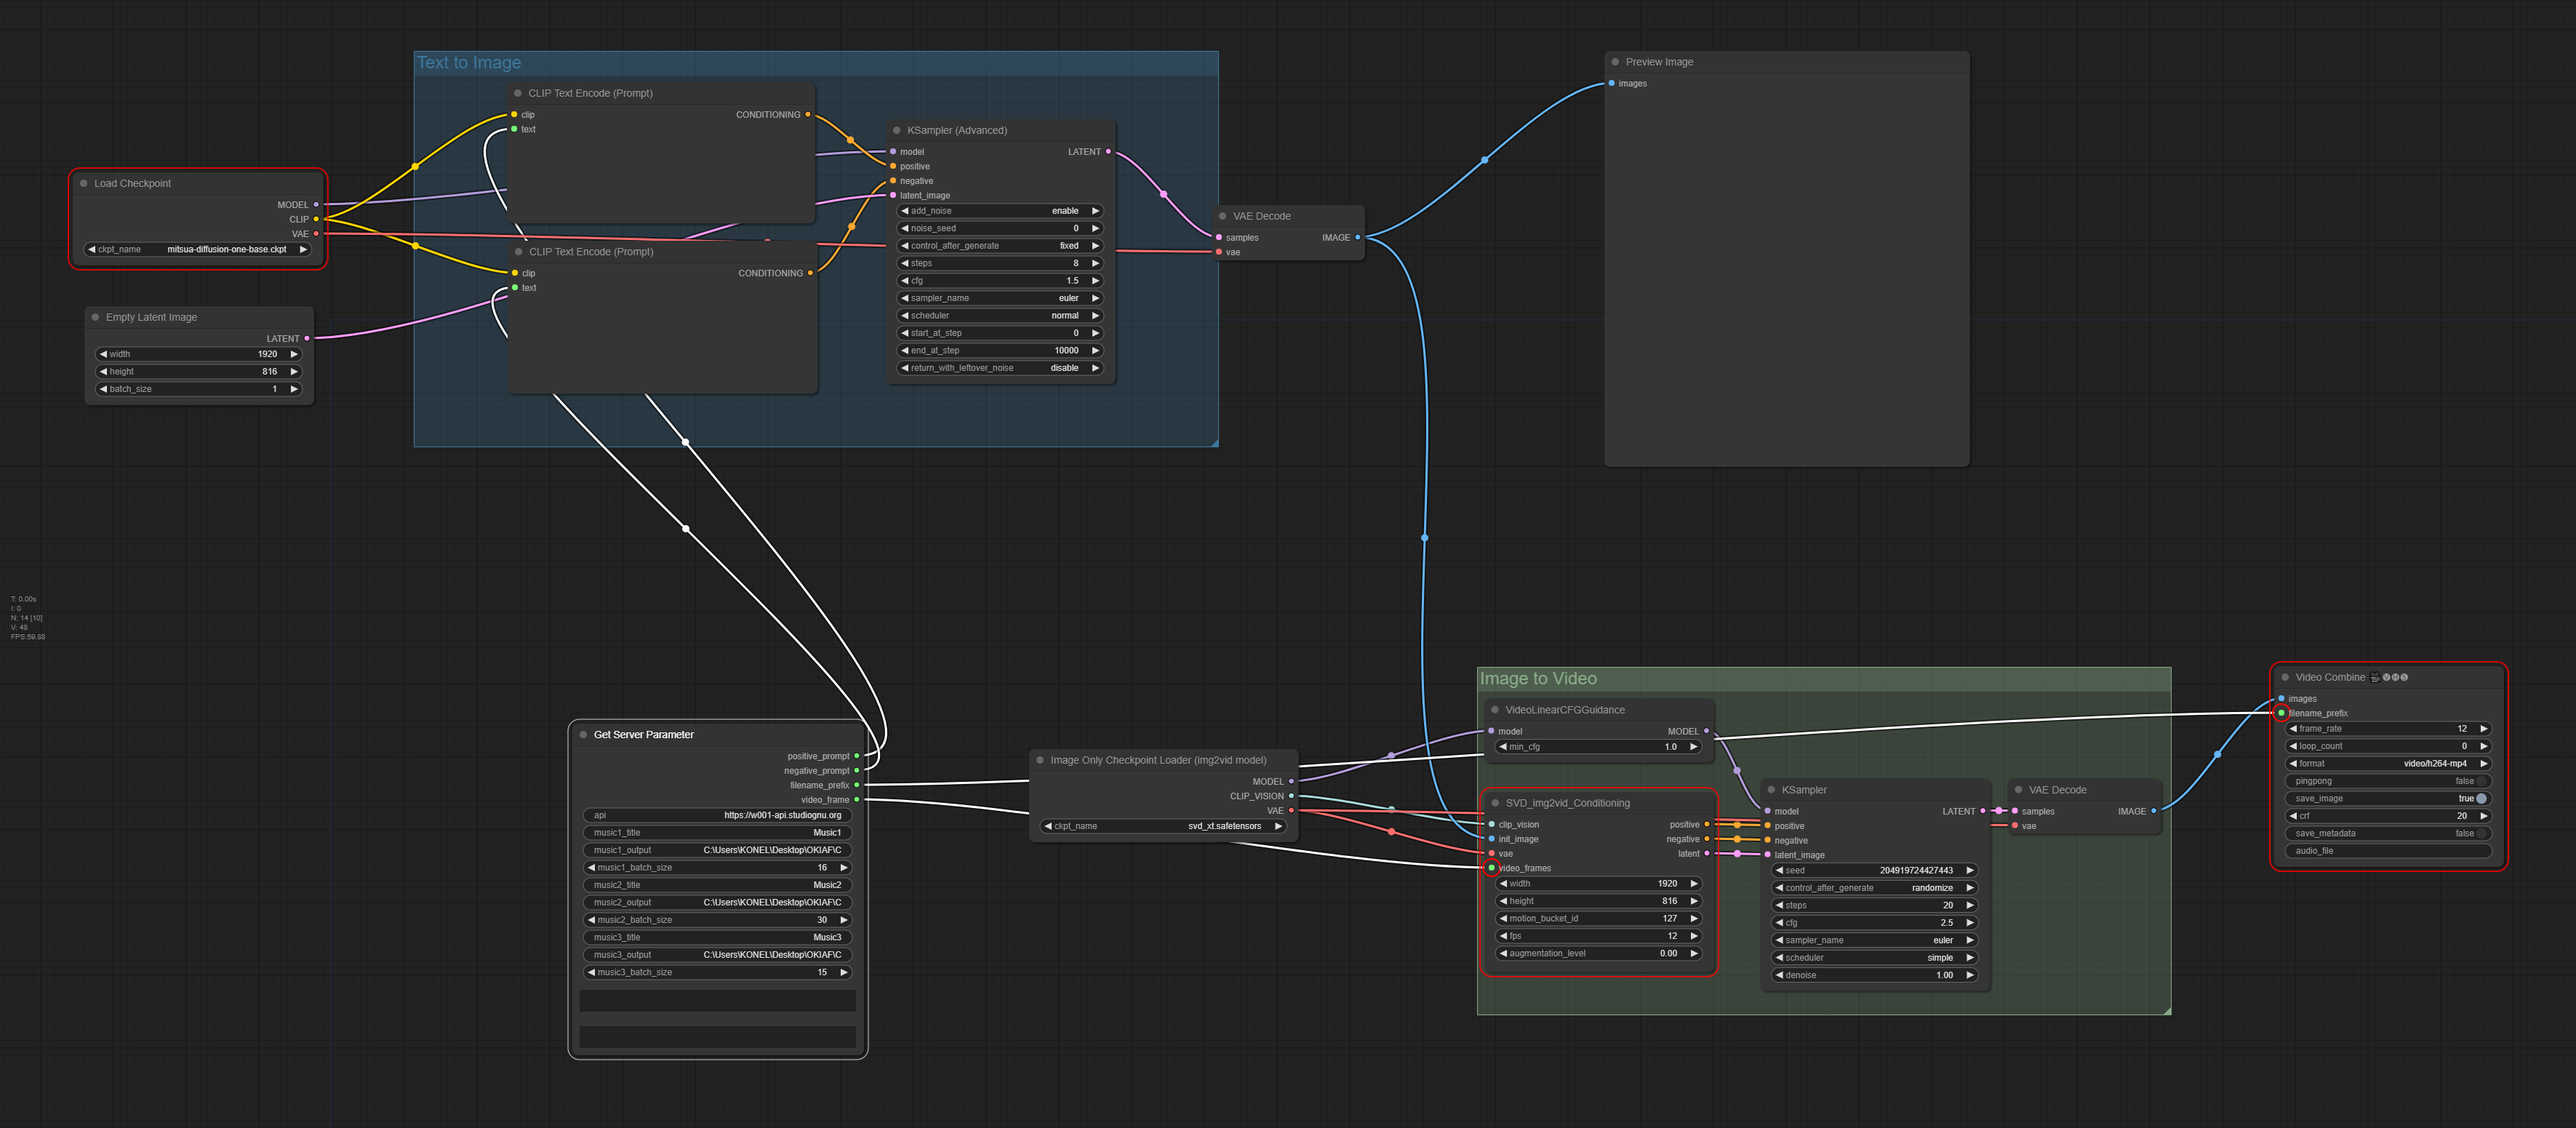
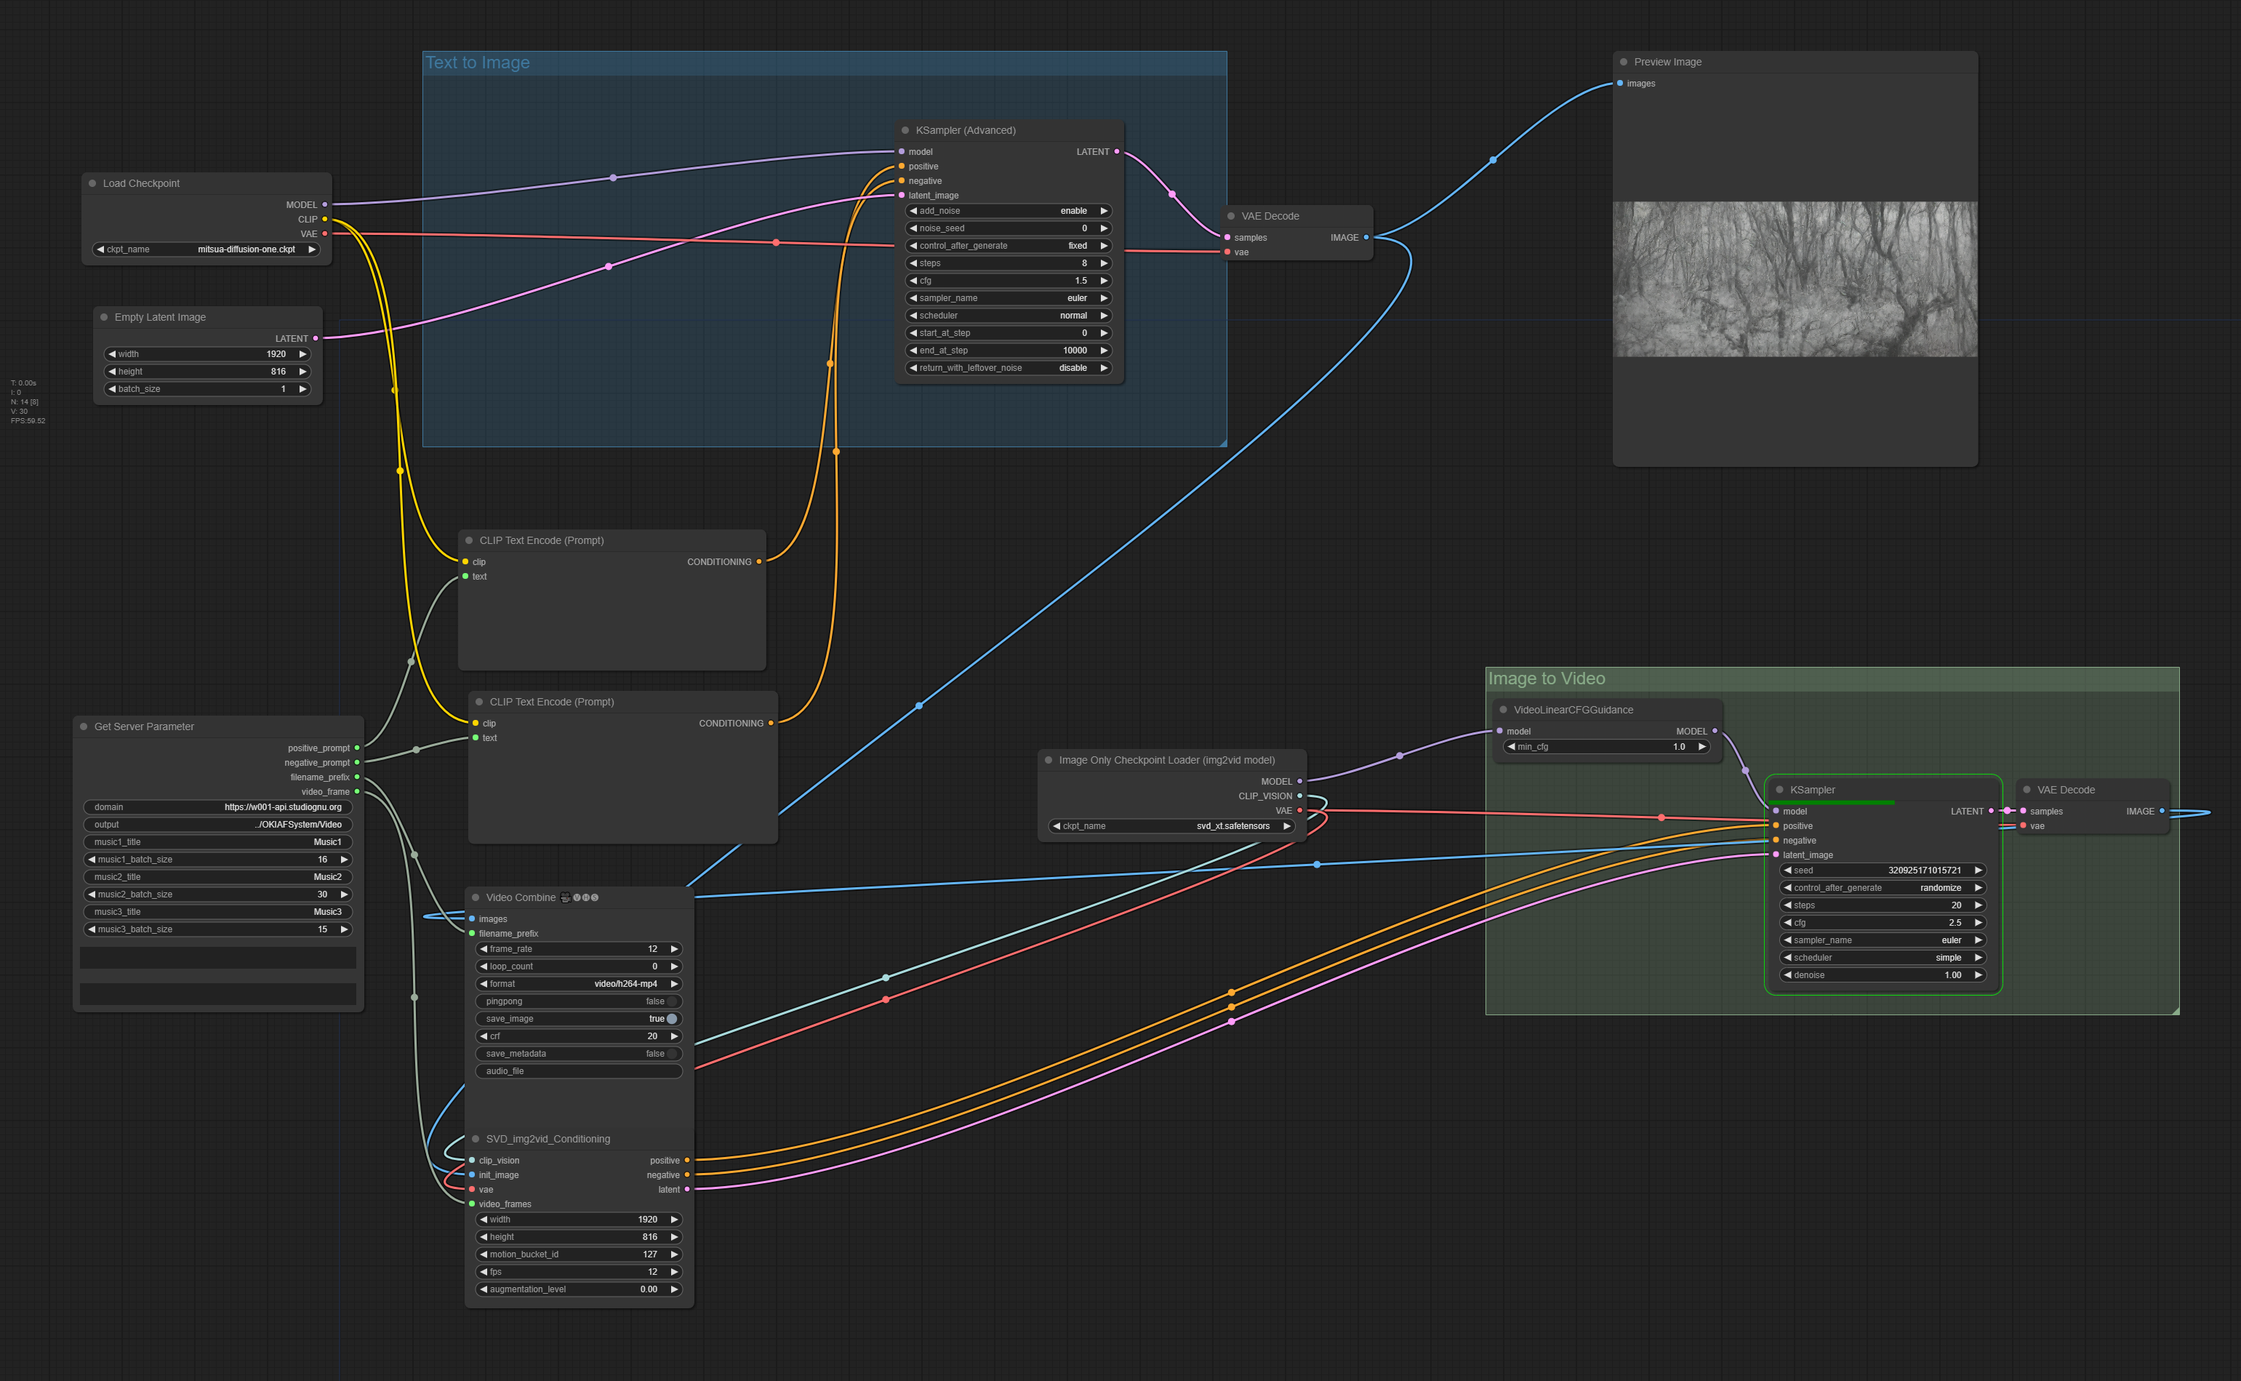
fix

diff --git a/custom_node.py b/custom_node.py
@@ -23,16 +23,13 @@ class GetServerParameter:
     def INPUT_TYPES(s):
         return {
             "required": {
-                "api": ("STRING", {"default": "https://w001-api.studiognu.org/api/prompt/mv/Music1"}),
+                "domain": ("STRING", {"default": "https://w001-api.studiognu.org/api/prompt/mv"}),
+                "output": ("STRING", {"default": folder_paths.get_output_directory()}),
                 "music1_title": ("STRING", {"default": "Music1"}),
-                "music1_output": ("STRING", {"default": folder_paths.get_output_directory()}),
                 "music1_batch_size": ("INT",{"default": 16, "min": 1, "step": 1},),
-                "music1_title": ("STRING", {"default": "Music1"}),
                 "music2_title": ("STRING", {"default": "Music2"}),
-                "music2_output": ("STRING", {"default": folder_paths.get_output_directory()}),
                 "music2_batch_size": ("INT",{"default": 30, "min": 1, "step": 1},),
                 "music3_title": ("STRING", {"default": "Music3"}),
-                "music3_output": ("STRING", {"default": folder_paths.get_output_directory()}),
                 "music3_batch_size": ("INT",{"default": 15, "min": 1, "step": 1},),
                 "positive_prompt": ("STRING", {"multiline": True}),
                 "negative_prompt": ("STRING", {"multiline": True}),
@@ -45,11 +42,13 @@ class GetServerParameter:
 
     CATEGORY = "OKIAF"
 
-    def run(self,api, positive_prompt,negative_prompt,
+    def run(self,domain,output,positive_prompt,negative_prompt,
             music1_title,music2_title,music3_title,
-            music1_output,music2_output,music3_output,
             music1_batch_size,music2_batch_size,music3_batch_size):
         
+        api = domain + '/Music1'
+        print(api)
+
         res = get(api)
         if res.status_code != 200:
             _positive_prompt = positive_prompt
@@ -58,10 +57,10 @@ class GetServerParameter:
         data = res.json()
 
         #データが前回と同じだったら1秒待機して再取得する
-        while self.prev_prompt == data["prompt"]:
-            time.sleep(1)
-            res = get(api)
-            data = res.json()
+        # while self.prev_prompt == data["prompt"]:
+        #     time.sleep(1)
+        #     res = get(api)
+        #     data = res.json()
 
         prompt = data["prompt"]
         _positive_prompt = prompt["positive"]
@@ -79,27 +78,28 @@ class GetServerParameter:
 
         if title == music1_title:
             filename_prefix = music1_title
-            outputdir = music1_output
+            outputdir = output + '\\' + title
             video_frame = music1_batch_size
         elif title == music2_title:
             filename_prefix = music2_title
-            outputdir = music2_output
+            outputdir = output + '\\' + title
             video_frame = music2_batch_size
         elif title == music3_title:
             filename_prefix = music3_title
-            outputdir = music3_output
+            outputdir = output + '\\' + title
             video_frame = music3_batch_size
         else:
             filename_prefix = music1_title
-            outputdir = music1_output
+            outputdir = output + '\\Music1'
             video_frame = music1_batch_size
 
         outputdir = outputdir + '\\' + formatted_date
+        absolute_path = os.path.abspath(outputdir)
         print(folder_paths.get_output_directory())
-        print(outputdir)
-        if not os.path.exists(outputdir):
-            os.makedirs(outputdir)
-        folder_paths.set_output_directory(outputdir)
+        print(absolute_path)
+        if not os.path.exists(absolute_path):
+            os.makedirs(absolute_path)
+        folder_paths.set_output_directory(absolute_path)
 
         return (_positive_prompt, _negative_prompt,filename_prefix,video_frame)
 
